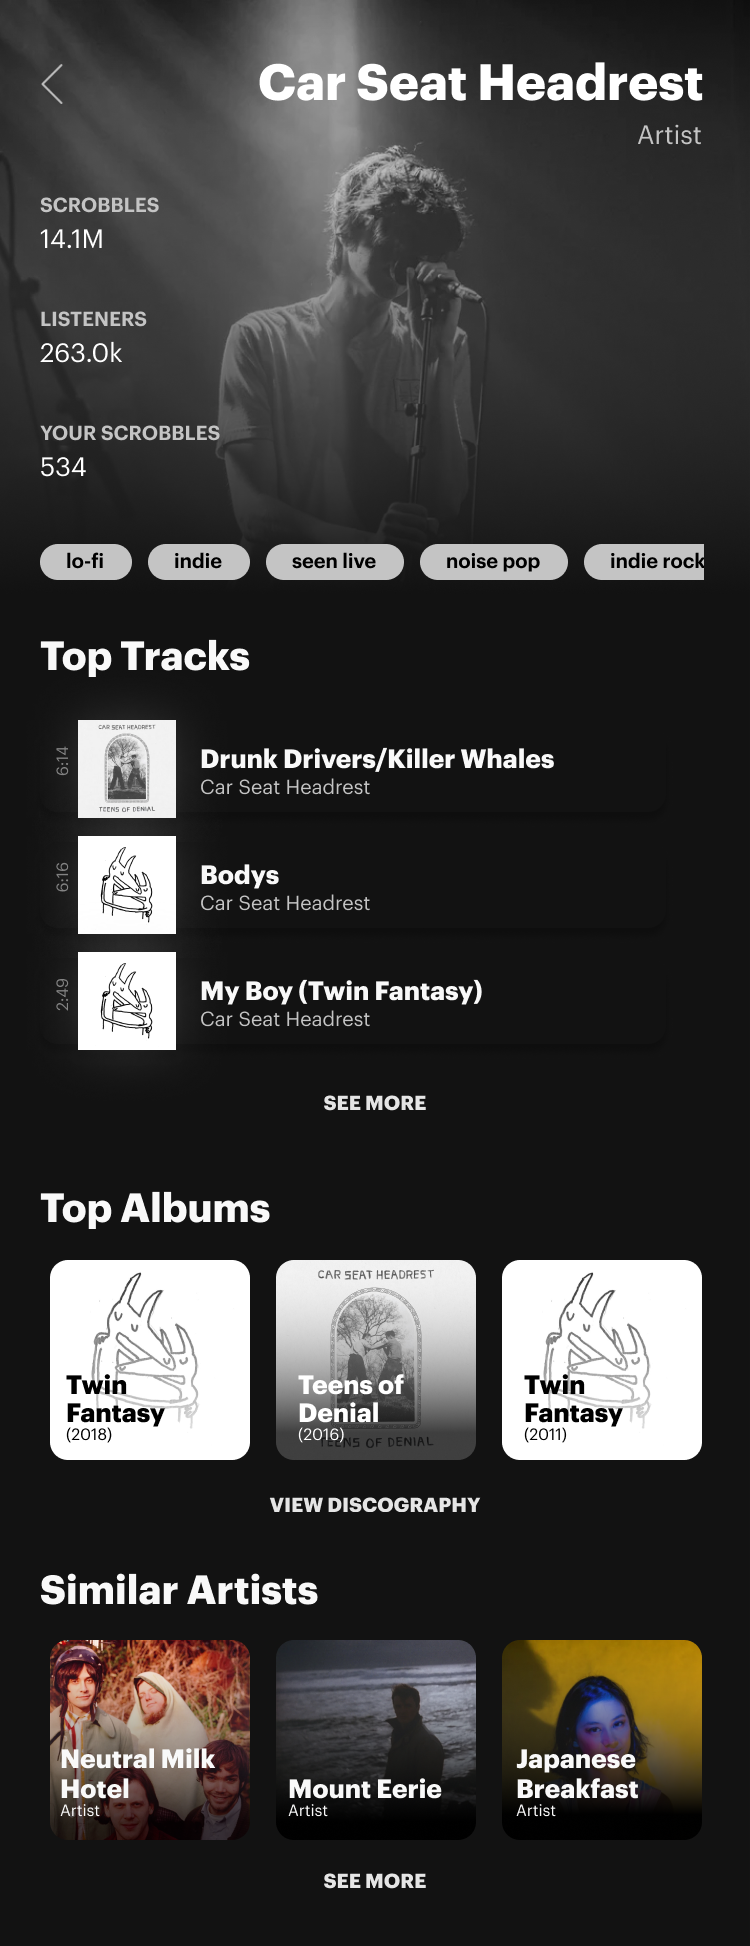
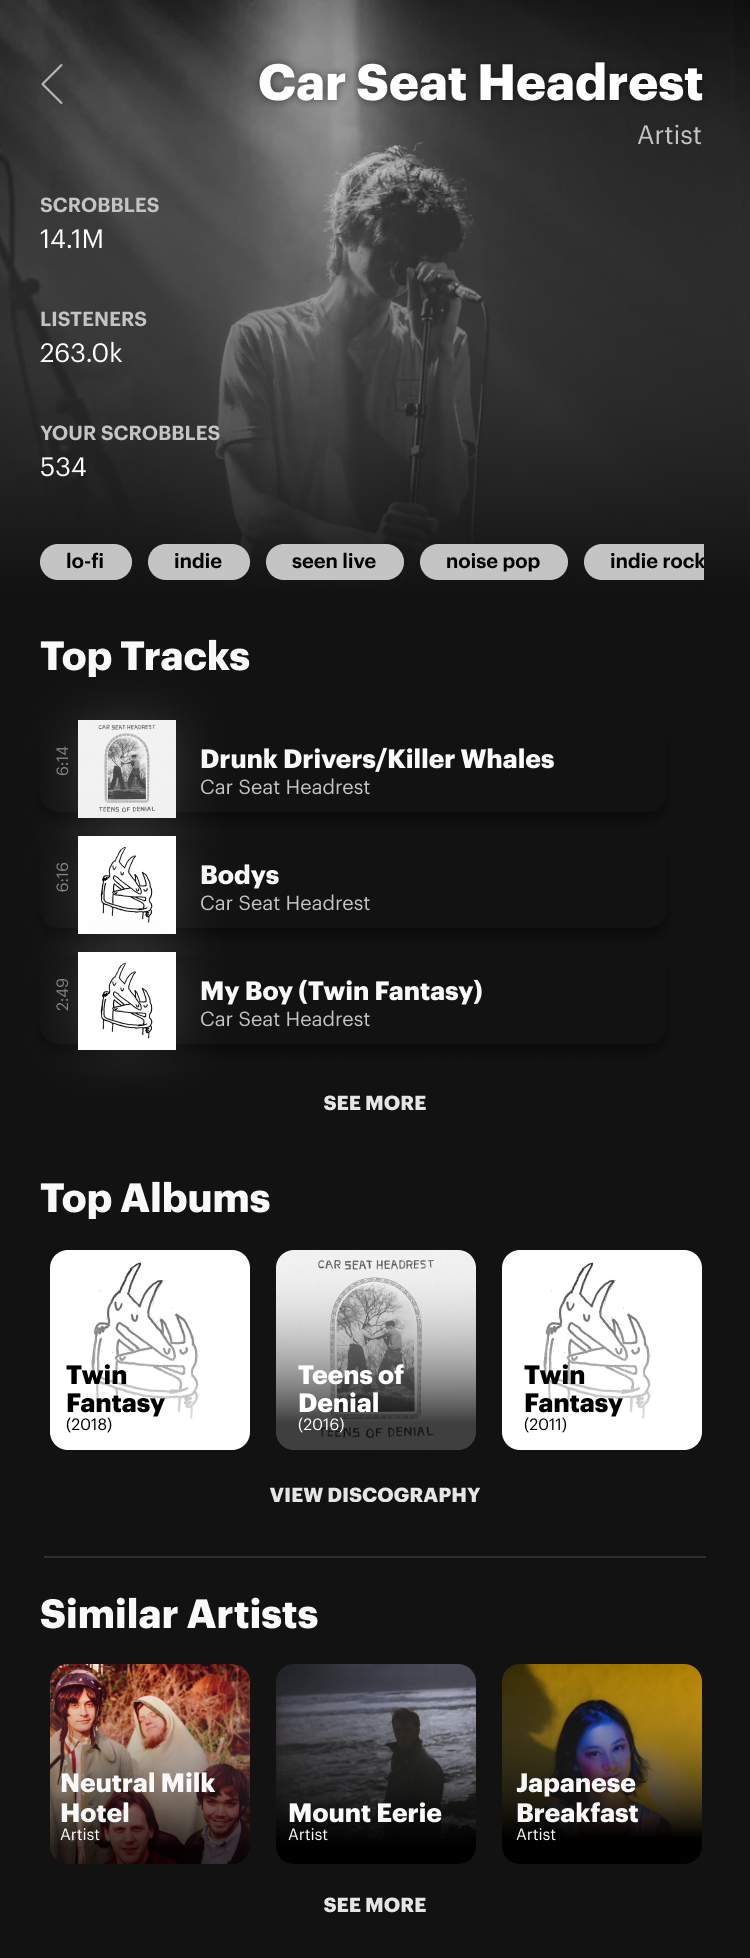
add dividers

diff --git a/public/work/lastfm.html b/public/work/lastfm.html
@@ -406,7 +406,9 @@
         </div>
             
         </div>   
-          <p><strong>ARTIST PAGE</strong>&mdash;Emphasis on discovery and providing a concise view of an artist's music.</p>
+          <p><strong>ARTIST PAGE</strong>&mdash;Emphasis on discovery and providing a concise view of an artist's music.<br>
+        On the artist page, I opted out of displaying the <em>bio field</em> that the website has just because the vast majority of artists don't have information written about them.
+        </p>
     </div>
               
                     
@@ -427,7 +429,8 @@
         </div>
             
         </div>   
-          <p><strong>ALBUM PAGE</strong>&mdash;Tracklistings and about are more immediate. Added discography by time. Discovery is still there.</p>
+          <p><strong>ALBUM PAGE</strong>&mdash;The redesign emphasizes the need-to-knows: release date, length, and an expandable about.<br>
+          A tracklist offers an overview of the songs featured on the album; discovery follows at the end of the page.</p>
     </div>
                     
                                 
@@ -451,7 +454,8 @@
         </div>   
           <p><strong>TRACK PAGE</strong>&mdash;The background color on the track shifts based on the originating album. Lyrics are available in full via modal.</p>
     </div>
-                 
+          
+    <hr>
             
 <div class="col">
         <div class="col-half">
@@ -502,13 +506,10 @@
         </div>   
     </div>
             
+          <hr><hr>
                     
-    <div class="col">
-<div class="col-half"></div>    
-
-    </div>
-                    
-    <h3>Onboarding</h3>
+    <h3>Onboarding: Building a mobile onboarding experience</h3>
+        <p>I also wanted to tackle a mobile onboarding experience, especially for the number of users that stream locally or on Spotify that can't wait until their end-of-the-year to understand and expand their music history. This is a huge opportunity area.</p>
 
                   
                    
